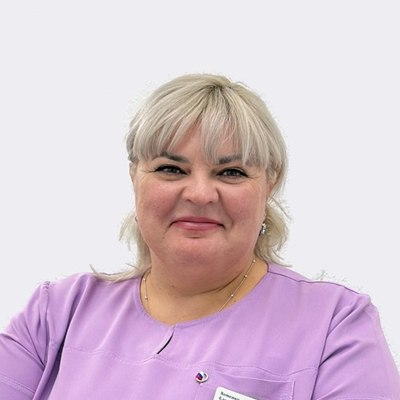
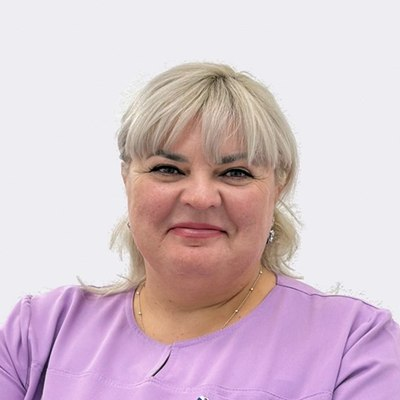
Хоменко: кружок в карточке крупнее (лицо как у Велиулаевой)

Changed region(s): [[0.0, 0.15, 1.0, 1.0]]

diff --git a/app-concept.html b/app-concept.html
@@ -6,9 +6,9 @@
   <title>Приложение «Колибри» — концепция</title>
   <meta name="description" content="Концепция мобильного приложения детской клиники «Колибри»: функционал по референсу, экраны в фирменном стиле, интеграция с МИС МЕДМИС.">
   <link rel="icon" href="img/logo.png" type="image/png">
-  <link rel="stylesheet" href="css/fonts.css?v=202610061129">
+  <link rel="stylesheet" href="css/fonts.css?v=202610061135">
 
-  <link rel="stylesheet" href="css/style.css?v=202610061129">
+  <link rel="stylesheet" href="css/style.css?v=202610061135">
   <style>
     /* ---------- страница ---------- */
     .concept-hero { background: linear-gradient(120deg, var(--p600), var(--p800)); color: #fff; border-radius: 32px; padding: 44px 48px; margin-top: 24px; display: grid; grid-template-columns: 1.2fr .8fr; gap: 32px; align-items: center; position: relative; overflow: hidden; }
@@ -777,8 +777,8 @@
   <symbol id="a-alert" viewBox="0 0 24 24" fill="none" stroke="currentColor" stroke-width="2" stroke-linecap="round" stroke-linejoin="round"><circle cx="12" cy="12" r="9"/><path d="M12 7v6M12 16h.01"/></symbol>
 </svg>
 
-<script src="js/data.js?v=202610061129"></script>
-<script src="js/photos.js?v=202610061129"></script>
-<script src="js/main.js?v=202610061129"></script>
+<script src="js/data.js?v=202610061135"></script>
+<script src="js/photos.js?v=202610061135"></script>
+<script src="js/main.js?v=202610061135"></script>
 </body>
 </html>

diff --git a/index.html b/index.html
@@ -6,9 +6,9 @@
   <title>Детская клиника «Колибри» — Симферополь, с. Мирное | Забота с первых дней</title>
   <meta name="description" content="Детская клиника «Колибри» в с. Мирное (Симферопольский район): педиатр-неонатолог, сопровождение недоношенных детей, УЗИ экспертного класса от 0 до 99 лет, вакцинация с рождения. Запись: +7 (978) 130-00-30">
   <link rel="icon" href="img/logo.png" type="image/png">
-  <link rel="stylesheet" href="css/fonts.css?v=202610061129">
+  <link rel="stylesheet" href="css/fonts.css?v=202610061135">
 
-  <link rel="stylesheet" href="css/style.css?v=202610061129">
+  <link rel="stylesheet" href="css/style.css?v=202610061135">
 </head>
 <body>
 
@@ -236,8 +236,8 @@
   </div>
 </section>
 
-<script src="js/data.js?v=202610061129"></script>
-<script src="js/photos.js?v=202610061129"></script>
-<script src="js/main.js?v=202610061129"></script>
+<script src="js/data.js?v=202610061135"></script>
+<script src="js/photos.js?v=202610061135"></script>
+<script src="js/main.js?v=202610061135"></script>
 </body>
 </html>

diff --git a/ceny.html b/ceny.html
@@ -6,9 +6,9 @@
   <title>Программы наблюдения и цены — Детская клиника «Колибри», с. Мирное</title>
   <meta name="description" content="Цены детской клиники «Колибри»: программы наблюдения детей от рождения до 6 и до 12 месяцев, осмотры педиатра, неонатолога, офтальмолога с сопровождением в мессенджере, пакет для недоношенных детей.">
   <link rel="icon" href="img/logo.png" type="image/png">
-  <link rel="stylesheet" href="css/fonts.css?v=202610061129">
+  <link rel="stylesheet" href="css/fonts.css?v=202610061135">
 
-  <link rel="stylesheet" href="css/style.css?v=202610061129">
+  <link rel="stylesheet" href="css/style.css?v=202610061135">
 </head>
 <body>
 
@@ -62,8 +62,8 @@
   </div>
 </section>
 
-<script src="js/data.js?v=202610061129"></script>
-<script src="js/photos.js?v=202610061129"></script>
-<script src="js/main.js?v=202610061129"></script>
+<script src="js/data.js?v=202610061135"></script>
+<script src="js/photos.js?v=202610061135"></script>
+<script src="js/main.js?v=202610061135"></script>
 </body>
 </html>

diff --git a/uslugi.html b/uslugi.html
@@ -6,9 +6,9 @@
   <title>Услуги — Детская клиника «Колибри», с. Мирное</title>
   <meta name="description" content="Услуги детской клиники «Колибри»: педиатр-неонатолог, сопровождение недоношенных детей, ортопед, хирург и уролог, невролог, офтальмолог, ЛОР, психолог, медсестра, консультант по грудному вскармливанию.">
   <link rel="icon" href="img/logo.png" type="image/png">
-  <link rel="stylesheet" href="css/fonts.css?v=202610061129">
+  <link rel="stylesheet" href="css/fonts.css?v=202610061135">
 
-  <link rel="stylesheet" href="css/style.css?v=202610061129">
+  <link rel="stylesheet" href="css/style.css?v=202610061135">
 </head>
 <body>
 
@@ -56,8 +56,8 @@
   </div>
 </section>
 
-<script src="js/data.js?v=202610061129"></script>
-<script src="js/photos.js?v=202610061129"></script>
-<script src="js/main.js?v=202610061129"></script>
+<script src="js/data.js?v=202610061135"></script>
+<script src="js/photos.js?v=202610061135"></script>
+<script src="js/main.js?v=202610061135"></script>
 </body>
 </html>

diff --git a/uzi.html b/uzi.html
@@ -6,9 +6,9 @@
   <title>УЗИ экспертного класса от 0 до 99 лет — Детская клиника «Колибри», с. Мирное</title>
   <meta name="description" content="Все виды УЗИ на аппарате экспертного класса: ЭхоКГ новорождённым весом до 3 кг, скрининг в 1 месяц, эластография, сосуды, лёгкие, кожа. Детям и взрослым. Запись: +7 (978) 130-00-30">
   <link rel="icon" href="img/logo.png" type="image/png">
-  <link rel="stylesheet" href="css/fonts.css?v=202610061129">
+  <link rel="stylesheet" href="css/fonts.css?v=202610061135">
 
-  <link rel="stylesheet" href="css/style.css?v=202610061129">
+  <link rel="stylesheet" href="css/style.css?v=202610061135">
 </head>
 <body>
 
@@ -74,8 +74,8 @@
   </div>
 </section>
 
-<script src="js/data.js?v=202610061129"></script>
-<script src="js/photos.js?v=202610061129"></script>
-<script src="js/main.js?v=202610061129"></script>
+<script src="js/data.js?v=202610061135"></script>
+<script src="js/photos.js?v=202610061135"></script>
+<script src="js/main.js?v=202610061135"></script>
 </body>
 </html>

diff --git a/rostomer.html b/rostomer.html
@@ -5,9 +5,9 @@
   <meta name="viewport" content="width=device-width, initial-scale=1">
   <title>Ростомер «Колибри» — варианты</title>
   <link rel="icon" href="img/logo.png" type="image/png">
-  <link rel="stylesheet" href="css/fonts.css?v=202610061129">
+  <link rel="stylesheet" href="css/fonts.css?v=202610061135">
 
-  <link rel="stylesheet" href="css/style.css?v=202610061129">
+  <link rel="stylesheet" href="css/style.css?v=202610061135">
   <style>
     .intro { background: #fff; border-radius: var(--radius); padding: 24px 28px; box-shadow: var(--shadow); margin-bottom: 28px; }
     .intro p { margin: 0 0 8px; font-size: 15px; }
@@ -89,10 +89,10 @@
   </div>
 </section>
 
-<script src="js/data.js?v=202610061129"></script>
-<script src="js/photos.js?v=202610061129"></script>
-<script src="js/main.js?v=202610061129"></script>
-<script src="js/rostomer.js?v=202610061129"></script>
+<script src="js/data.js?v=202610061135"></script>
+<script src="js/photos.js?v=202610061135"></script>
+<script src="js/main.js?v=202610061135"></script>
+<script src="js/rostomer.js?v=202610061135"></script>
 <script>
 (function () {
   window.ROSTOMER.variants.forEach(function (v, i) {

diff --git a/o-klinike.html b/o-klinike.html
@@ -6,9 +6,9 @@
   <title>О клинике — Детская клиника «Колибри», с. Мирное</title>
   <meta name="description" content="Детская клиника «Колибри» в с. Мирное Симферопольского района: врачи высшей категории, УЗИ экспертного класса, сопровождение недоношенных детей, вакцинация с рождения.">
   <link rel="icon" href="img/logo.png" type="image/png">
-  <link rel="stylesheet" href="css/fonts.css?v=202610061129">
+  <link rel="stylesheet" href="css/fonts.css?v=202610061135">
 
-  <link rel="stylesheet" href="css/style.css?v=202610061129">
+  <link rel="stylesheet" href="css/style.css?v=202610061135">
 </head>
 <body>
 
@@ -90,8 +90,8 @@
   </div>
 </section>
 
-<script src="js/data.js?v=202610061129"></script>
-<script src="js/photos.js?v=202610061129"></script>
-<script src="js/main.js?v=202610061129"></script>
+<script src="js/data.js?v=202610061135"></script>
+<script src="js/photos.js?v=202610061135"></script>
+<script src="js/main.js?v=202610061135"></script>
 </body>
 </html>

diff --git a/kontakty.html b/kontakty.html
@@ -6,9 +6,9 @@
   <title>Контакты — Детская клиника «Колибри», с. Мирное, ул. Крымской Весны, 9к1</title>
   <meta name="description" content="Детская клиника «Колибри»: Республика Крым, Симферопольский р-н, с. Мирное, ул. Крымской Весны, 9к1. Телефон +7 (978) 130-00-30. Схема проезда и режим работы.">
   <link rel="icon" href="img/logo.png" type="image/png">
-  <link rel="stylesheet" href="css/fonts.css?v=202610061129">
+  <link rel="stylesheet" href="css/fonts.css?v=202610061135">
 
-  <link rel="stylesheet" href="css/style.css?v=202610061129">
+  <link rel="stylesheet" href="css/style.css?v=202610061135">
 </head>
 <body>
 
@@ -54,8 +54,8 @@
   </div>
 </section>
 
-<script src="js/data.js?v=202610061129"></script>
-<script src="js/photos.js?v=202610061129"></script>
-<script src="js/main.js?v=202610061129"></script>
+<script src="js/data.js?v=202610061135"></script>
+<script src="js/photos.js?v=202610061135"></script>
+<script src="js/main.js?v=202610061135"></script>
 </body>
 </html>

diff --git a/vrachi.html b/vrachi.html
@@ -6,9 +6,9 @@
   <title>Врачи — Детская клиника «Колибри», с. Мирное</title>
   <meta name="description" content="Врачи детской клиники «Колибри»: педиатры-неонатологи высшей категории, ортопед, детский хирург и уролог, невролог, офтальмологи, ЛОР, врачи УЗИ. Запись: +7 (978) 130-00-30">
   <link rel="icon" href="img/logo.png" type="image/png">
-  <link rel="stylesheet" href="css/fonts.css?v=202610061129">
+  <link rel="stylesheet" href="css/fonts.css?v=202610061135">
 
-  <link rel="stylesheet" href="css/style.css?v=202610061129">
+  <link rel="stylesheet" href="css/style.css?v=202610061135">
 </head>
 <body>
 
@@ -47,8 +47,8 @@
   </div>
 </section>
 
-<script src="js/data.js?v=202610061129"></script>
-<script src="js/photos.js?v=202610061129"></script>
-<script src="js/main.js?v=202610061129"></script>
+<script src="js/data.js?v=202610061135"></script>
+<script src="js/photos.js?v=202610061135"></script>
+<script src="js/main.js?v=202610061135"></script>
 </body>
 </html>

diff --git a/poleznoe.html b/poleznoe.html
@@ -6,9 +6,9 @@
   <title>Полезное для родителей — Детская клиника «Колибри»</title>
   <meta name="description" content="Статьи врачей детской клиники «Колибри»: осмотры в первый месяц, УЗИ сердца новорождённому, прививки недоношенным, когда нужен невролог.">
   <link rel="icon" href="img/logo.png" type="image/png">
-  <link rel="stylesheet" href="css/fonts.css?v=202610061129">
+  <link rel="stylesheet" href="css/fonts.css?v=202610061135">
 
-  <link rel="stylesheet" href="css/style.css?v=202610061129">
+  <link rel="stylesheet" href="css/style.css?v=202610061135">
 </head>
 <body>
 
@@ -32,8 +32,8 @@
   </div>
 </section>
 
-<script src="js/data.js?v=202610061129"></script>
-<script src="js/photos.js?v=202610061129"></script>
-<script src="js/main.js?v=202610061129"></script>
+<script src="js/data.js?v=202610061135"></script>
+<script src="js/photos.js?v=202610061135"></script>
+<script src="js/main.js?v=202610061135"></script>
 </body>
 </html>

diff --git a/politika.html b/politika.html
@@ -6,8 +6,8 @@
   <title>Политика конфиденциальности — Детская клиника «Колибри»</title>
   <meta name="description" content="Политика обработки персональных данных пользователей сайта детской клиники «Колибри».">
   <link rel="icon" href="img/logo.png" type="image/png">
-  <link rel="stylesheet" href="css/fonts.css?v=202610061129">
-  <link rel="stylesheet" href="css/style.css?v=202610061129">
+  <link rel="stylesheet" href="css/fonts.css?v=202610061135">
+  <link rel="stylesheet" href="css/style.css?v=202610061135">
 </head>
 <body>
 
@@ -78,8 +78,8 @@
   </div>
 </section>
 
-<script src="js/data.js?v=202610061129"></script>
-<script src="js/photos.js?v=202610061129"></script>
-<script src="js/main.js?v=202610061129"></script>
+<script src="js/data.js?v=202610061135"></script>
+<script src="js/photos.js?v=202610061135"></script>
+<script src="js/main.js?v=202610061135"></script>
 </body>
 </html>

diff --git a/soglasie.html b/soglasie.html
@@ -7,8 +7,8 @@
   <meta name="description" content="Согласие на обработку персональных данных при отправке заявки на сайте детской клиники «Колибри».">
   <meta name="robots" content="noindex">
   <link rel="icon" href="img/logo.png" type="image/png">
-  <link rel="stylesheet" href="css/fonts.css?v=202610061129">
-  <link rel="stylesheet" href="css/style.css?v=202610061129">
+  <link rel="stylesheet" href="css/fonts.css?v=202610061135">
+  <link rel="stylesheet" href="css/style.css?v=202610061135">
 </head>
 <body>
 
@@ -57,8 +57,8 @@
   </div>
 </section>
 
-<script src="js/data.js?v=202610061129"></script>
-<script src="js/photos.js?v=202610061129"></script>
-<script src="js/main.js?v=202610061129"></script>
+<script src="js/data.js?v=202610061135"></script>
+<script src="js/photos.js?v=202610061135"></script>
+<script src="js/main.js?v=202610061135"></script>
 </body>
 </html>
